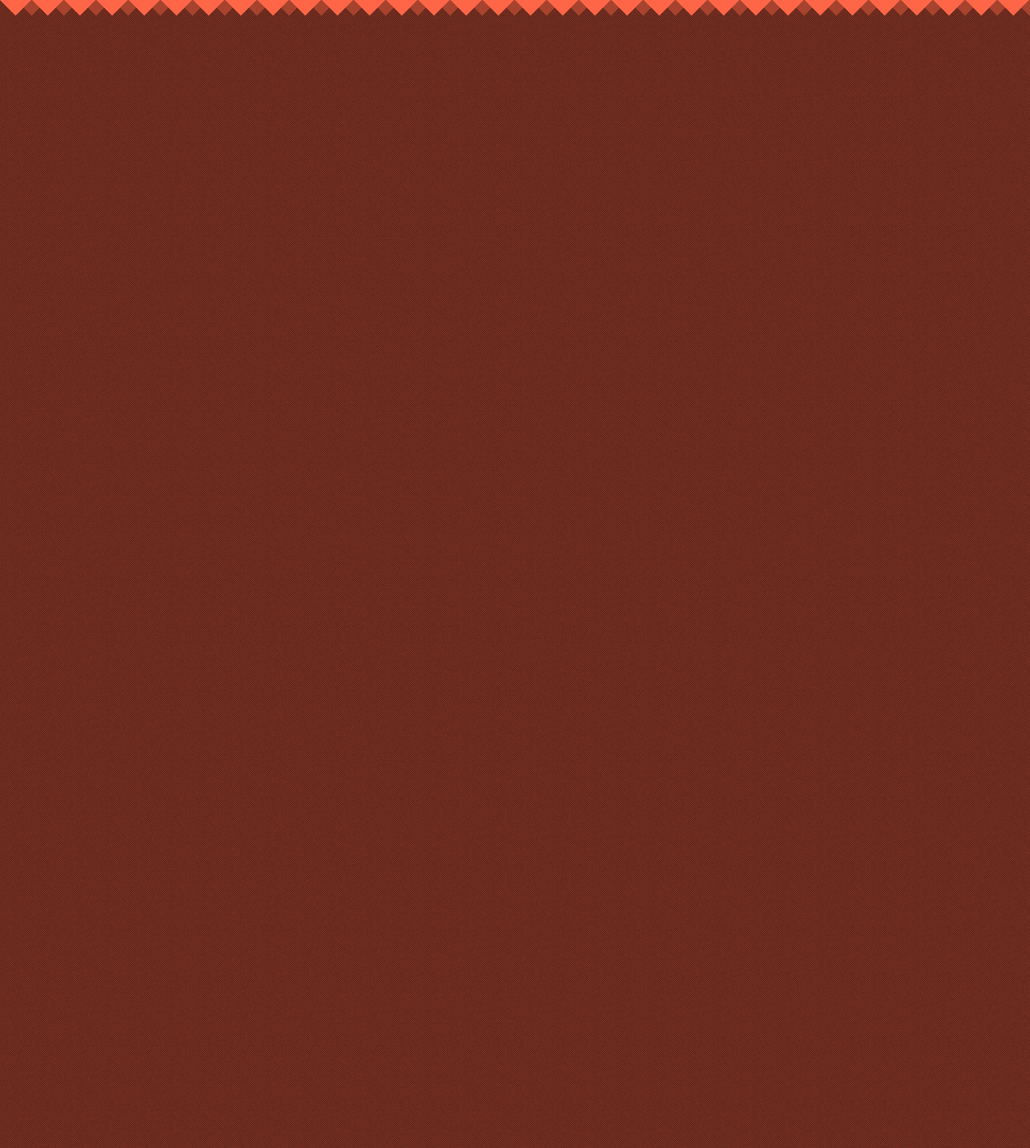
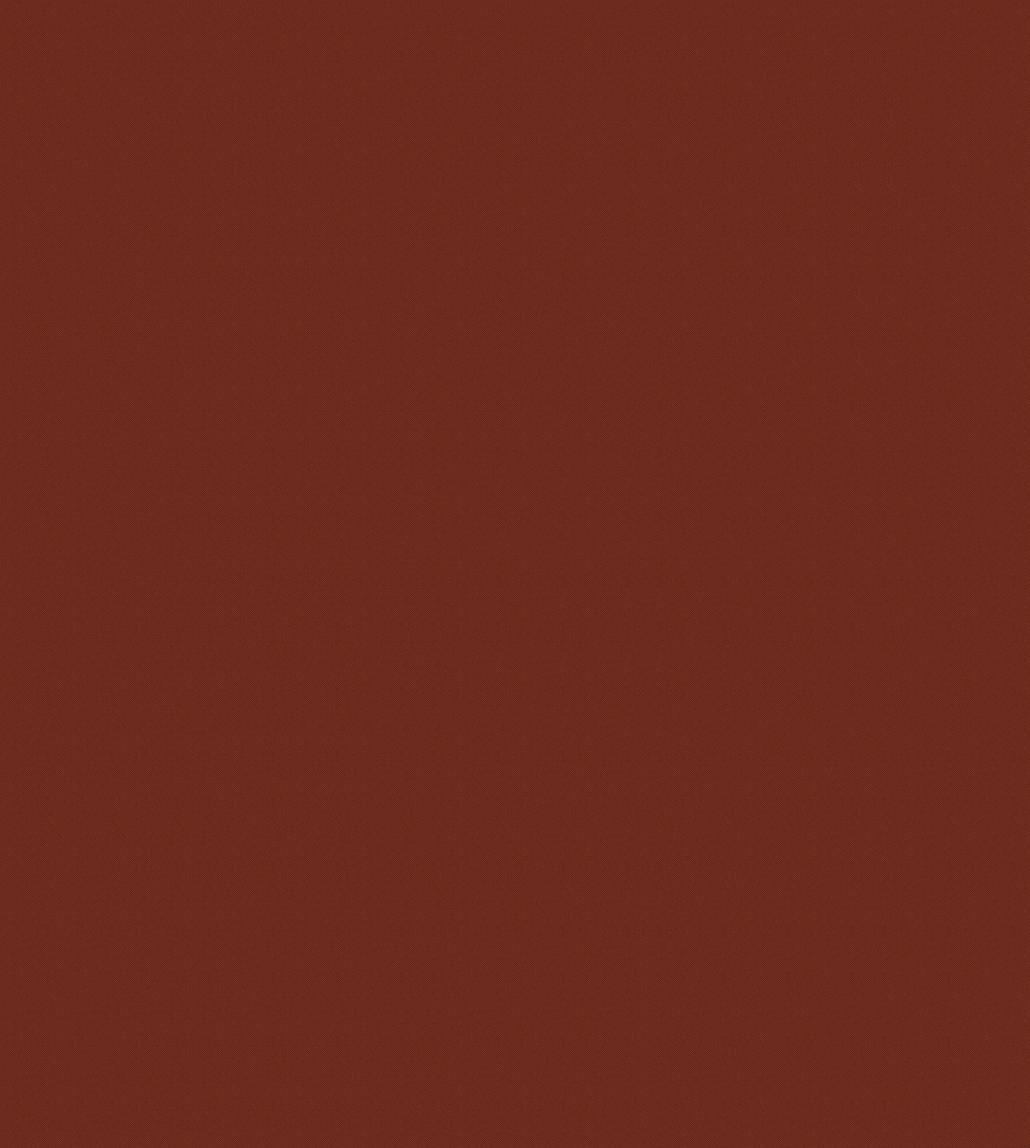
added sidebar

Changed region(s): [[0.0, 0.0, 1.0, 0.0308]]

diff --git a/style.css b/style.css
@@ -1,9 +1,10 @@
 body {
-     background-image: url(img/15.png);
+     background-image: url(img/background.png);
     margin: 0;
     padding: 0;
     width: 1920px;
     height: 2140px;
+    background-repeat: repeat-x;
  }
 
 #triangles{
@@ -82,24 +83,23 @@ body {
     width: 640px;
     height: 384px;
 }
-#sidebar_list{
-    display: list-item;
-    list-style: none;
-}
+
 .left_arrow{
     width: 22px;
     height: 22px;
     position: absolute;
     padding-right: 1px;
-    margin: -32px 0px 0px 585px;
+    margin: -36px 0px 0px 585px;
 }
+
 .right_arrow{
     width: 22px;
     height: 22px;
     position: absolute;
     padding-right: 1px;
-    margin: -32px 0px 0px 608px;
+    margin: -36px 0px 0px 608px;
 }
+
 #menu_social{
     float: left;
     width: 170px;
@@ -130,3 +130,110 @@ body {
 }
 
 a img {border: none}
+
+#sidebar_list{
+    padding: 0px;
+    float: left;
+    width: 270px;
+    height: 1005px;
+    margin:1px 0px 0px 30px;
+    display: list-item;
+    list-style: none;
+}
+
+#s{
+    float: left;
+    padding: 0px;
+    padding-left: 10px;
+    font: 14px Roboto lt;
+    border: none;
+    width: 220px;
+    height: 43px;
+    background-color: #ff6647 ;
+    color:#fff;
+
+}
+
+#search{
+height: 63px;
+}
+
+#search_image{
+    float: left;
+    vertical-align: top;
+    cursor: pointer;
+    width: 40px;
+    height: 43px;
+    color: #ffffff;
+    border: none;
+    text-indent: -999em;
+    background-image: url(img/search.png);
+}
+
+#contact{
+    background-repeat: no-repeat;
+    background-image: url(img/contact_background.png);
+    height: 198px;
+}
+
+#cont{
+    font: 32px Oswald;
+    color: #fff;
+    padding: 20px 0px 0px 20px;
+}
+
+#email{
+    font: 14px Roboto lt;
+    color: #fff;
+    padding: 16px 0px 0px 20px;
+}
+
+#caller{
+    margin: 30px 0px 0px 18px;
+    float: left;
+}
+
+#call_me {
+    margin: 25px 0px 0px 55px;
+}
+
+#call_me p{
+    margin: 0px;
+    font: 14.7px Roboto lt;
+    color: #fff;
+}
+
+#integer{
+    background-image: url(img/integer_background.png);
+    background-repeat: no-repeat;
+    height: 368px;
+}
+
+.integer_header{
+    font: 22.5px Oswald;
+    color: #ff6647;
+    padding: 13px 0px 0px 19px;
+}
+
+.eusimod{
+    font: 14.5px Roboto lt;
+    color: #ff6647;
+    padding-left: 19px;
+    margin-top: -3px;
+}
+
+#lorem {
+    padding: 26px 0px 0px 20px;
+}
+
+#lorem p{
+    margin-bottom: 23.5px;
+    font : 13.5px Roboto lt;
+    color: #fff;
+}
+
+#fields{
+    background-image: url(img/fields_background.png);
+    background-repeat: no-repeat;
+    height: 376px;
+}

diff --git a/index.html b/index.html
@@ -25,9 +25,9 @@
         <div id="sitam">
             sitam oreiontom ipsum
         </div>
-        <a href=""><img src="img/facebook.png"></a>
-        <a href=""><img src="img/twitter.png"></a>
-        <a href=""><img src="img/in.png"></a>
+        <a href=""><img src="img/facebook.png" alt="some text"></a>
+        <a href=""><img src="img/twitter.png" alt="some text"></a>
+        <a href=""><img src="img/in.png" alt="some text"></a>
     </div>
     <div id="menu">
         <a href="">HOME</a>
@@ -44,16 +44,42 @@
     <div id="banner">
         <a href=""><img src="img/banner.png"></a>
         <div>
-            <a href="" class="left_arrow"><img src="img/left_arrow.png"></a>
-            <a href="" class="right_arrow"><img src="img/right_arrow.png"></a>
+            <a href="" class="left_arrow"><img src="img/left_arrow.png" alt="some text"></a>
+            <a href="" class="right_arrow"><img src="img/right_arrow.png" alt="some text"></a>
         </div>
     </div>
 </div>
-<div id="sidebar_list">
+<ul id="sidebar_list">
     <li id="search">
         <input type="text" name="s" id="s" value="search here..." onblur="if (this.value==''){this.value = 'search here...';}" onfocus="if (this.value=='search here...'){this.value = '';}">
         <input id="search_image" class="sbutton" type="submit" value="Поиск">
+        <div><img src="img/search_footer.png" alt="some text"></div>
     </li>
-</div>
+    <li id="contact">
+        <div id="cont">CONTACT ME</div>
+        <div id="email">myname@sitename.com</div>
+        <div id="caller"><img src="img/call_me.png" alt="some text"></div>
+        <div id="call_me">
+            <p>call me</p>
+            <p>000-8888 888888</p>
+        </div>
+    </li>
+    <li id="integer">
+        <div class="integer_header">INTEGER VIS TICEN</div>
+        <div class="eusimod">Eusimod vestinulam lacus ultrie</div>
+        <div id="lorem">
+            <p>Lorem ipsum dolor sit ame</p>
+            <p>Aliquam tincidunt mauris </p>
+            <p>Vestibulum auctor dapibus nequ</p>
+            <p>Nunc dignissim risus id metu</p>
+            <p>Vivamus vestibulum nulla nec</p>
+            <p>Fusce pellentesque suscipit nibh</p>
+        </div>
+    </li>
+    <li id="fields">
+        <div class="integer_header">INTEGER VIS TICEN</div>
+        <div class="eusimod">Eusimod vestinulam lacus ultrie</div>
+    </li>
+</ul>
 </body>
 </html>
